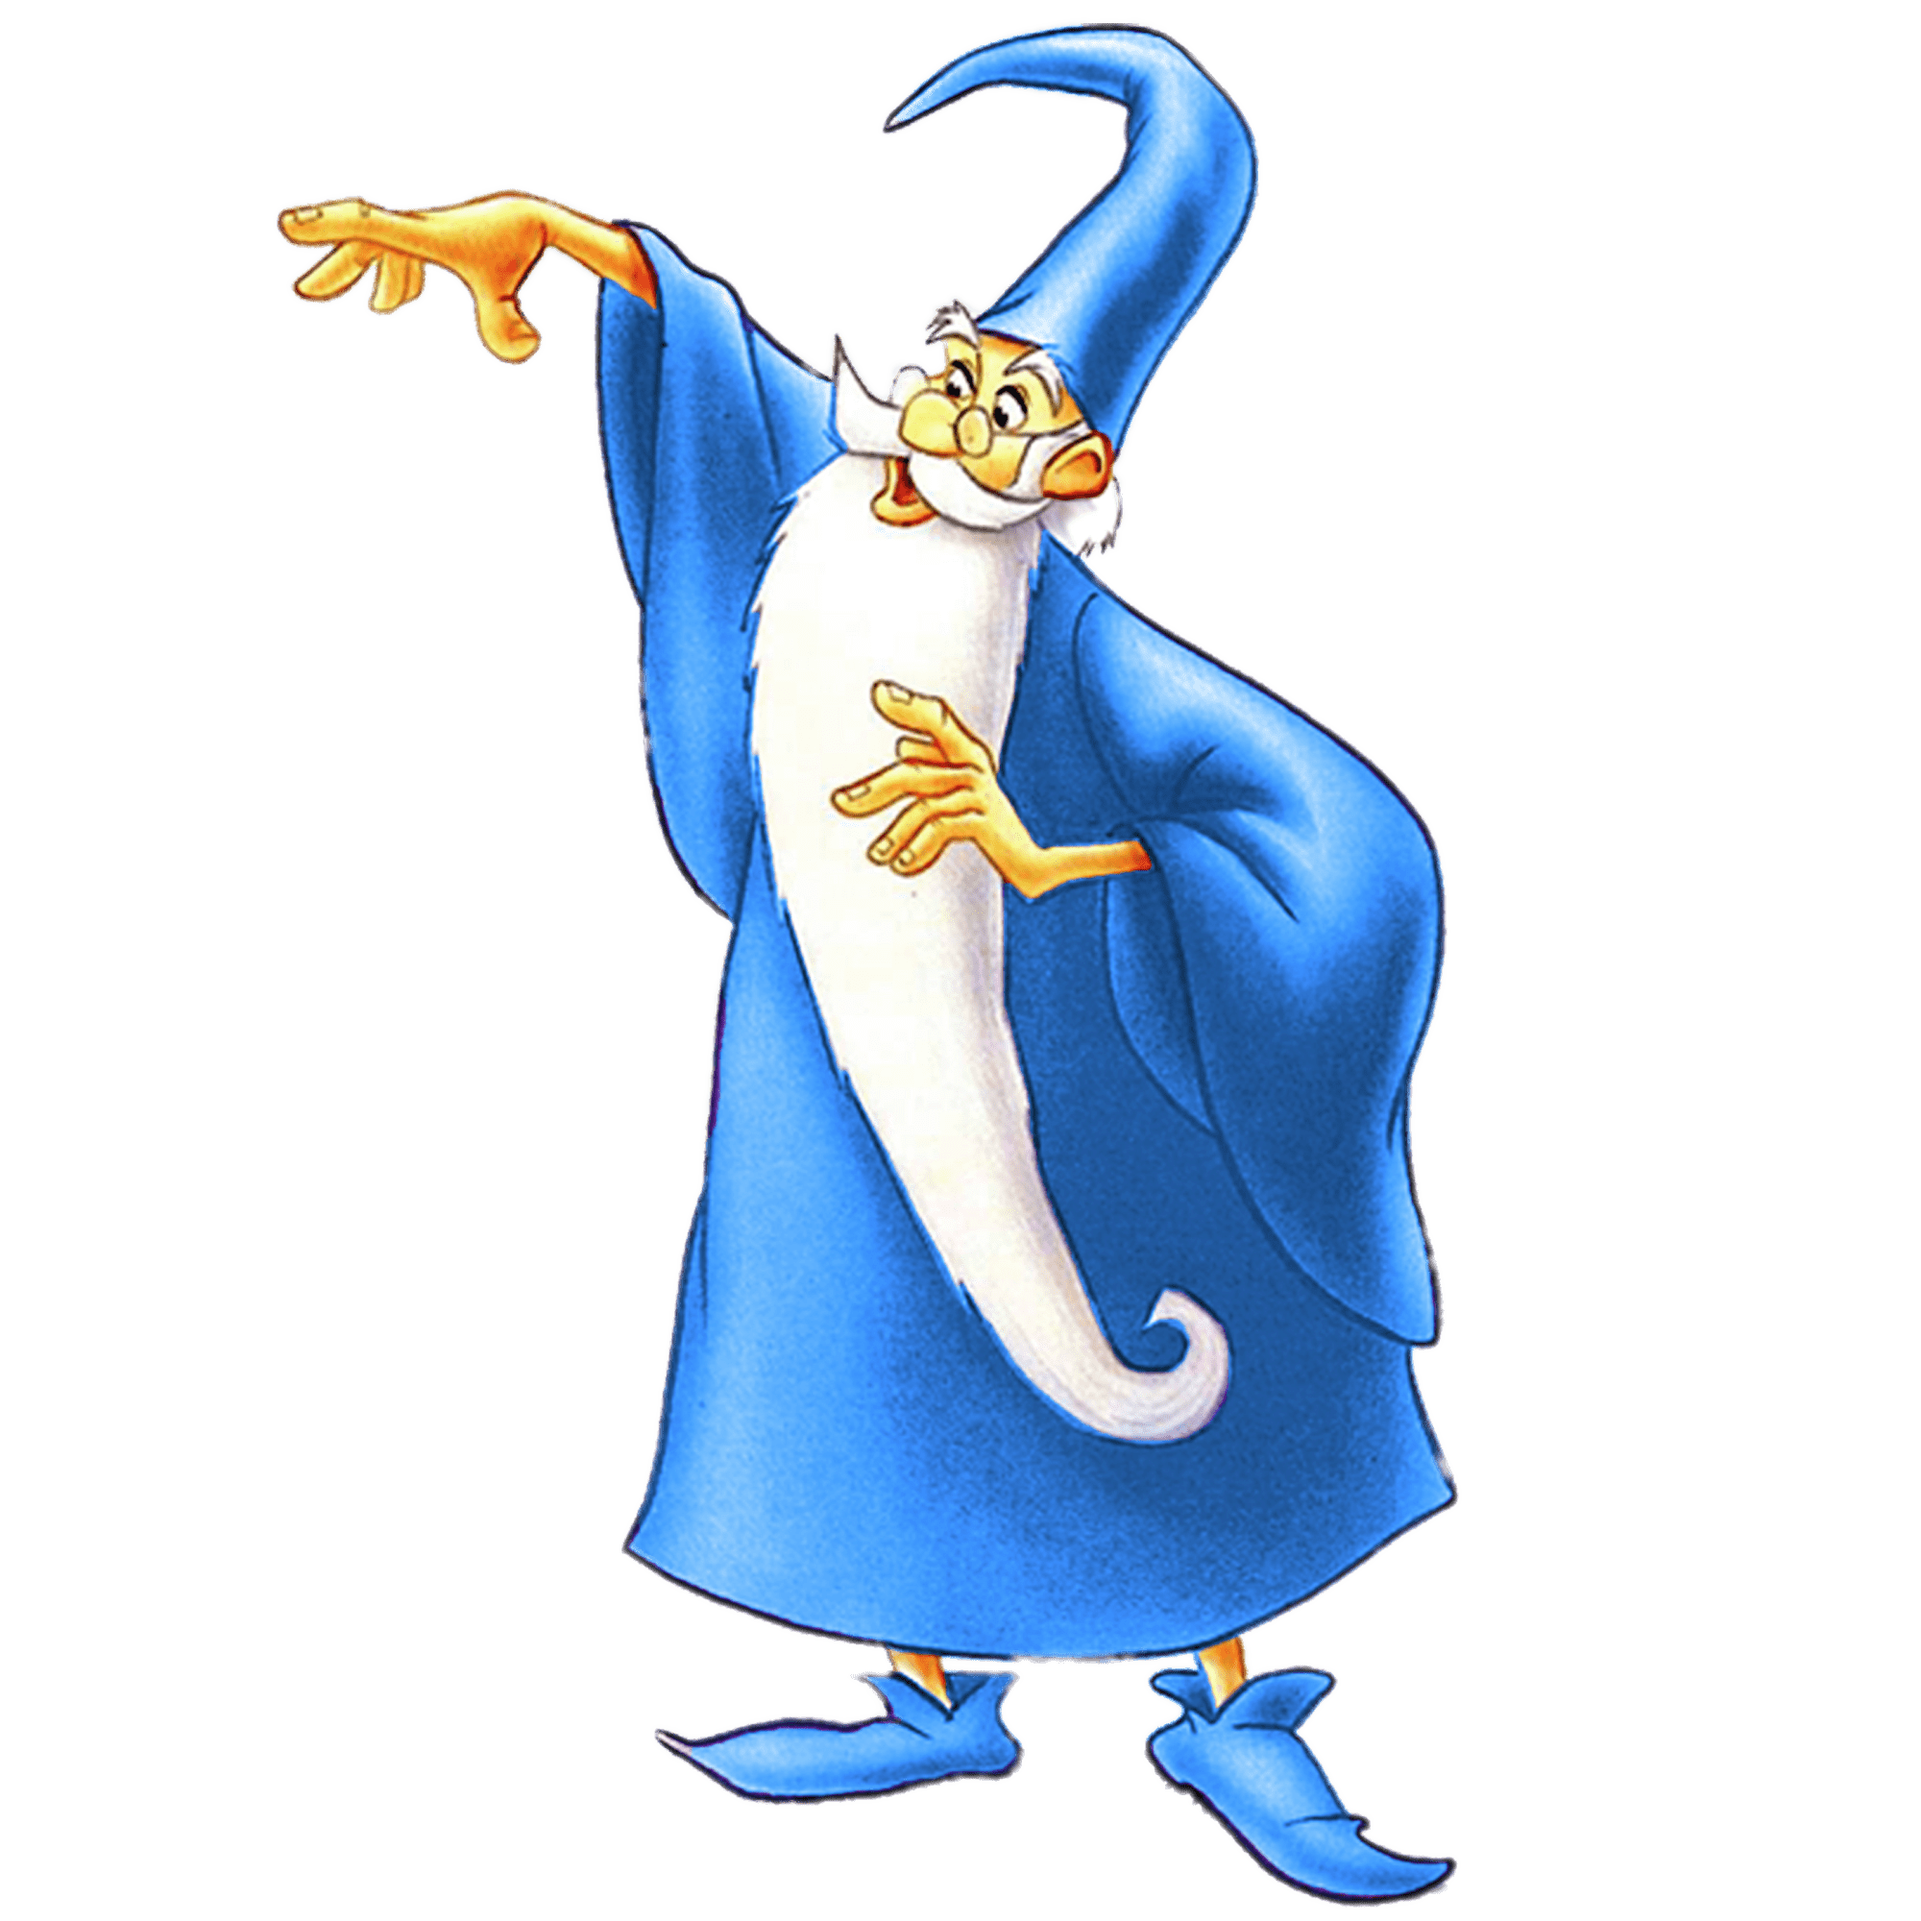
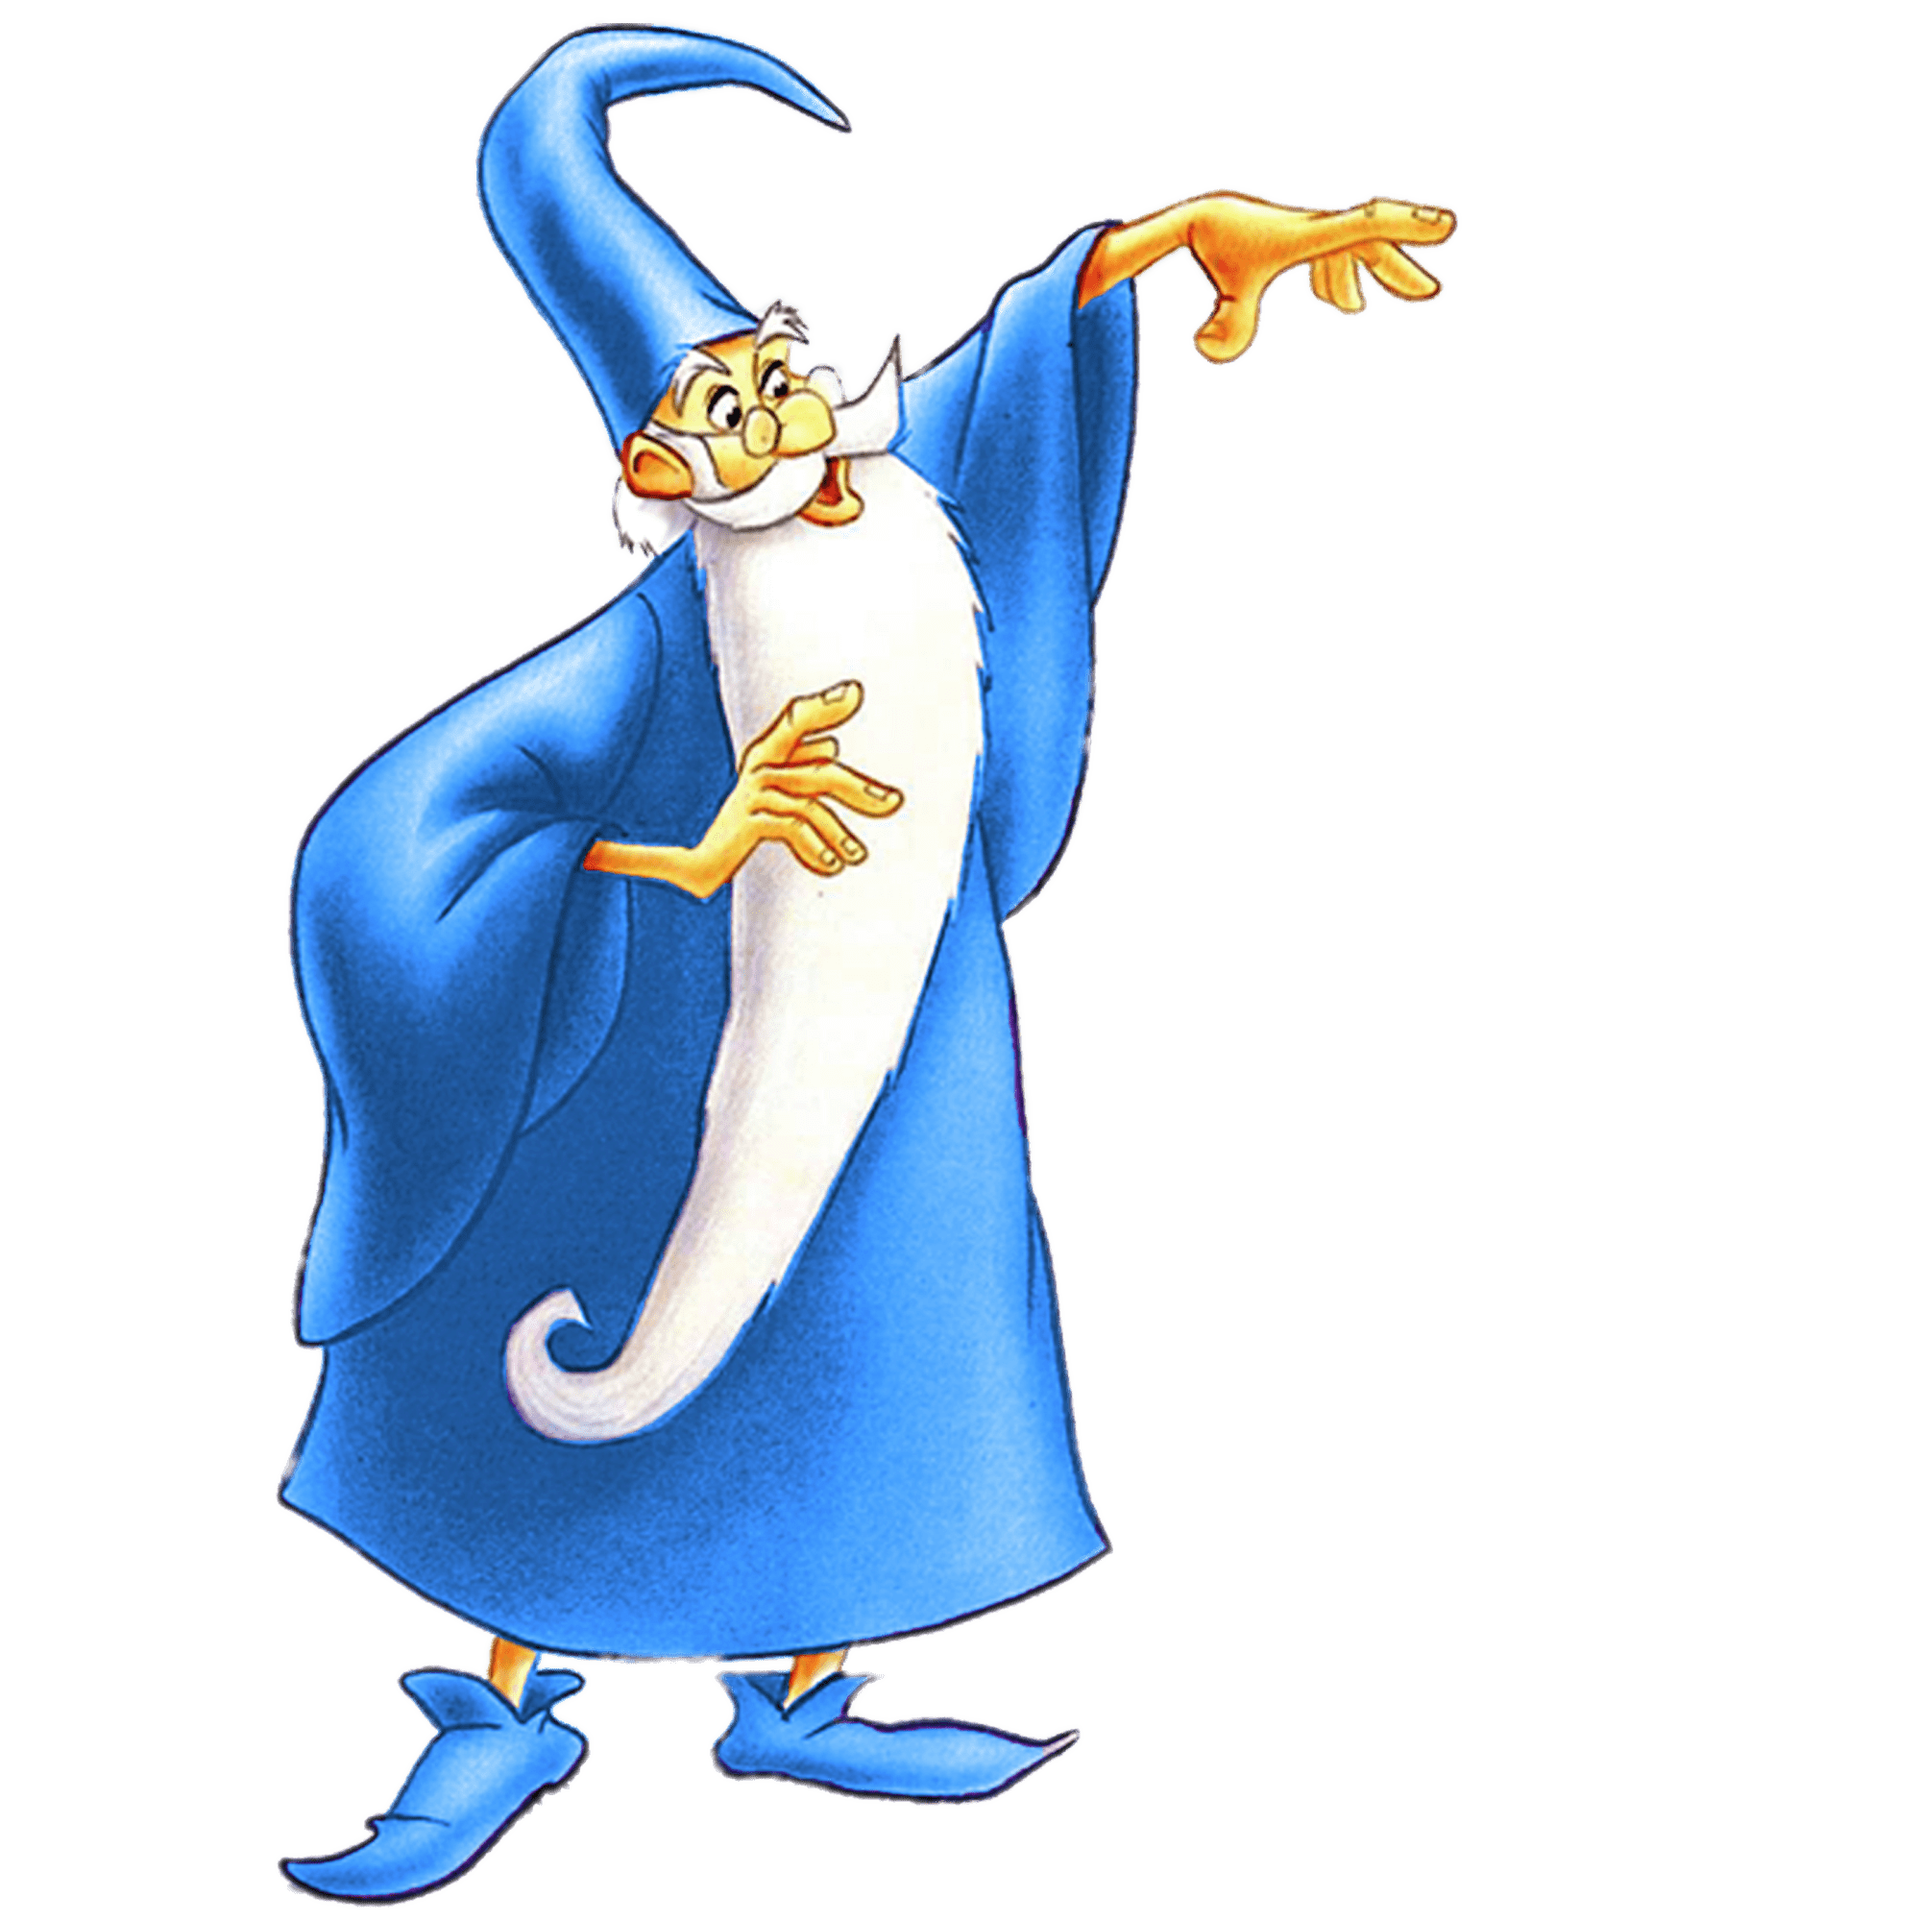
Adicionada imagens, adicionado parte de audio.

diff --git a/scripts/index.js b/scripts/index.js
@@ -28,7 +28,7 @@ const config = {
                         'Lorem ipsum dolor sit amet, consectetur adipiscing elit, sed do eiusmod tempor incididunt ut labore et dolore magna aliqua. Ut enim ad minim veniam, quis nostrud exercitation ullamco laboris nisi ut aliquip ex ea commodo consequat. Duis aute irure dolor in reprehenderit in voluptate velit esse cillum dolore eu fugiat nulla pariatur. Excepteur sint occaecat cupidatat non proident, sunt in culpa qui officia deserunt mollit anim id est laborum.',
                         {
                             background: './assets/images/home-arthur.png',
-                            merlin: './assets/images/cutscene-merlin-three.png',
+                            merlin: './assets/images/cutscene-merlin-one.png',
                             audio: './assets/audios/chest.mp3'
                         }
                     )

diff --git a/index.html b/index.html
@@ -60,8 +60,8 @@
 
             <div data-cutscene class="window cutscene cutscene--none">
                 <div class="cutscene__content">
-                    <p data-cutscene-text class="cutscene__text"></p>
                     <img data-cutscene-merlin class="cutscene__image" src="" alt="Merlin">
+                    <p data-cutscene-text class="cutscene__text"></p>
                 </div>
             </div>
 
@@ -77,6 +77,7 @@
         <script src="./scripts/home.js"></script>
         <script src="./scripts/cutscene.js"></script>
         <script src="./scripts/bridge.js"></script>
+        <script src="./scripts/audio.js"></script>
         <script src="./scripts/index.js"></script>
     </body>
 </html>

diff --git a/scripts/audio.js b/scripts/audio.js
@@ -1,0 +1,15 @@
+const audio = {
+    play: function(url){
+        let audioPlayed = new Audio(url);
+
+        audioPlayed.play();
+
+        return {
+            yourself: audioPlayed,
+            end: () => {
+                audioPlayed.pause();
+                audioPlayed = null;
+            }
+        }
+    }
+}

diff --git a/scripts/life.js b/scripts/life.js
@@ -18,5 +18,7 @@ const life = {
 
         if(lastItem) lastItem.classList.remove(this.activeItemClass);
         if(lastIndex === 0) config.lose();
+
+        audio.play('./assets/audios/hit-me.wav');
     }
 };
